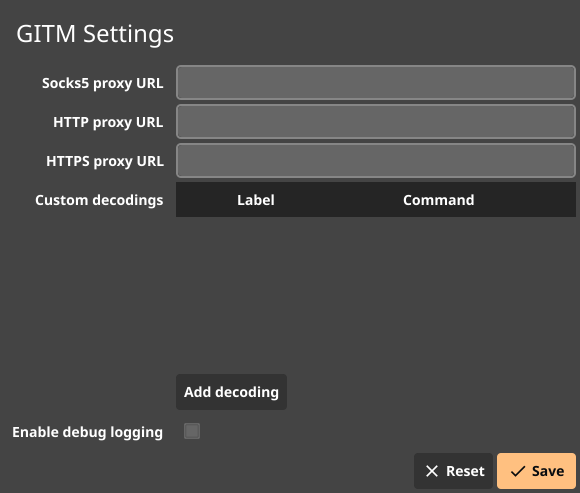
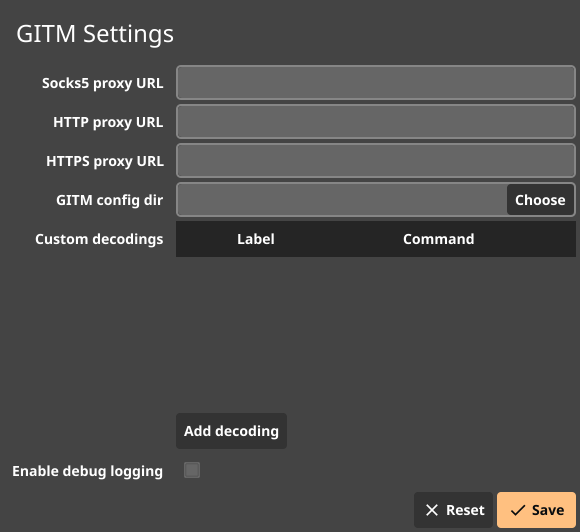
More work on docs, allow user to customize config file location

diff --git a/internal/ui/help.go b/internal/ui/help.go
@@ -10,6 +10,7 @@ import (
 	"fyne.io/fyne/v2/container"
 	"fyne.io/fyne/v2/storage"
 	"fyne.io/fyne/v2/widget"
+	"github.com/redawl/gitm/internal/util"
 )
 
 //go:embed docs/about.md
@@ -35,41 +36,42 @@ func MakeHelp() *fyne.Menu {
 	return menu
 }
 
+// CreateDocsEntry creates a menu subentry
+func CreateDocsEntry(label string, filename string, contentContainer *container.Scroll) *fyne.MenuItem {
+	content, ok := contentContainer.Content.(*widget.RichText)
+	util.Assert(ok)
+
+	return fyne.NewMenuItem(label, func() {
+		if homeContent, err := readDocsFile(filename); err != nil {
+			slog.Error("Error reading docs entry", "filename", filename, "error", err)
+		} else {
+			content.ParseMarkdown(homeContent)
+			contentContainer.ScrollToTop()
+		}
+	})
+}
+
 func MakeDocs() *fyne.MenuItem {
 	return fyne.NewMenuItem("Documentation", func() {
-		for _, window := range fyne.CurrentApp().Driver().AllWindows() {
-			if window.Title() == "Documentation" {
-				window.RequestFocus()
-				return
-			}
-		}
-		w := fyne.CurrentApp().NewWindow("Documentation")
+		w := util.NewWindowIfNotExists("Documentation")
 
 		content := widget.NewRichText()
+		contentContainer := container.NewVScroll(content)
 		if homeContent, err := readDocsFile("default.md"); err != nil {
 			slog.Error("Error reading default", "error", err)
 		} else {
 			content.ParseMarkdown(homeContent)
 		}
 
+		// TODO: Replace with list widget, so the currently selected
+		// menu item can be highlighted
 		menu := widget.NewMenu(fyne.NewMenu("",
-			fyne.NewMenuItem("Home", func() {
-				if homeContent, err := readDocsFile("default.md"); err != nil {
-					slog.Error("Error reading default", "error", err)
-				} else {
-					content.ParseMarkdown(homeContent)
-				}
-			}),
-			fyne.NewMenuItem("Iphone setup", func() {
-				if iphoneSetupContent, err := readDocsFile("setup-iphone.md"); err != nil {
-					slog.Error("Error reading Iphone setup", "error", err)
-				} else {
-					content.ParseMarkdown(iphoneSetupContent)
-				}
-			}),
+			CreateDocsEntry("Home", "default.md", contentContainer),
+			CreateDocsEntry("Iphone setup", "setup-iphone.md", contentContainer),
+			CreateDocsEntry("Firefox setup", "firefox.md", contentContainer),
 		))
 
-		w.SetContent(container.NewBorder(nil, nil, menu, nil, container.NewVScroll(content)))
+		w.SetContent(container.NewBorder(nil, nil, menu, nil, contentContainer))
 		w.Show()
 	})
 }

diff --git a/internal/ui/settings/settings.go b/internal/ui/settings/settings.go
@@ -74,7 +74,7 @@ func MakeSettingsUi(restart func()) fyne.Window {
 		}
 	}
 
-	w := a.NewWindow("Settings")
+	w := util.NewWindowIfNotExists("Settings")
 	prefs := a.Preferences()
 	header := container.NewPadded(&widget.Label{
 		Text:     "GITM Settings",
@@ -92,6 +92,18 @@ func MakeSettingsUi(restart func()) fyne.Window {
 	httpsUrl := &widget.Entry{
 		Text: prefs.String(config.TLS_LISTEN_URI),
 	}
+
+	configDir := &widget.Entry{
+		Text: prefs.String(config.CONFIGDIR),
+	}
+
+	configDir.ActionItem = widget.NewButton("Choose", func() {
+		dialog.NewFolderOpen(func(lu fyne.ListableURI, err error) {
+			if lu != nil {
+				configDir.SetText(lu.Path())
+			}
+		}, w).Show()
+	})
 
 	debugEnabled := &widget.Check{
 		Checked: prefs.Bool(config.ENABLE_DEBUG_LOGGING),
@@ -154,9 +166,12 @@ func MakeSettingsUi(restart func()) fyne.Window {
 	table.Refresh()
 
 	form := widget.NewForm()
+	// TODO: Remove entryLayout? How does this look now?
+	// Keeping it causes issues on some devices
 	form.Append("Socks5 proxy URL", container.New(&entryLayout{}, socks5Url))
 	form.Append("HTTP proxy URL", container.New(&entryLayout{}, httpUrl))
 	form.Append("HTTPS proxy URL", container.New(&entryLayout{}, httpsUrl))
+	form.Append("GITM config dir", container.New(&entryLayout{}, configDir))
 	form.Append("Custom decodings",
 		container.NewBorder(
 			nil,
@@ -178,6 +193,7 @@ func MakeSettingsUi(restart func()) fyne.Window {
 		prefs.SetString(config.SOCKS_LISTEN_URI, socks5Url.Text)
 		prefs.SetString(config.HTTP_LISTEN_URI, httpUrl.Text)
 		prefs.SetString(config.TLS_LISTEN_URI, httpsUrl.Text)
+		prefs.SetString(config.CONFIGDIR, configDir.Text)
 		prefs.SetBool(config.ENABLE_DEBUG_LOGGING, debugEnabled.Checked)
 
 		newCustomDecodings := make([]string, len(decodingLabels))
@@ -192,6 +208,7 @@ func MakeSettingsUi(restart func()) fyne.Window {
 			if b {
 				restart()
 			}
+			w.Close()
 		}, w)
 		successPopup.Show()
 	}

diff --git a/internal/config/config.go b/internal/config/config.go
@@ -1,6 +1,8 @@
 package config
 
 import (
+	"os"
+
 	"fyne.io/fyne/v2"
 )
 
@@ -10,6 +12,7 @@ type Config struct {
 	SocksListenUri  string
 	Debug           bool
 	CustomDecodings []string
+	configDir       string
 }
 
 const (
@@ -18,6 +21,7 @@ const (
 	SOCKS_LISTEN_URI     = "socksListenUri"
 	ENABLE_DEBUG_LOGGING = "enableDebugLogging"
 	CUSTOM_DECODINGS     = "customDecodings"
+	CONFIGDIR            = "configDir"
 )
 
 func stringWithFallbackSave(prefs fyne.Preferences, key string, defaultValue string) string {
@@ -45,12 +49,19 @@ func boolWithFallbackSave(prefs fyne.Preferences, key string, defaultValue bool)
 // ParseFlags parses the currently saved user preferences, and if any are missing saves the default values
 // for those preferences to disk
 func ParseFlags(preferences fyne.Preferences) Config {
+	userCfgDir, err := os.UserConfigDir()
+	if err != nil {
+		userCfgDir = ""
+	}
+
+	userCfgDir = userCfgDir + "/gitm"
 	conf := Config{
 		HttpListenUri:   stringWithFallbackSave(preferences, HTTP_LISTEN_URI, "127.0.0.1:8080"),
 		TlsListenUri:    stringWithFallbackSave(preferences, TLS_LISTEN_URI, "127.0.0.1:5443"),
 		SocksListenUri:  stringWithFallbackSave(preferences, SOCKS_LISTEN_URI, "127.0.0.1:1080"),
 		Debug:           boolWithFallbackSave(preferences, ENABLE_DEBUG_LOGGING, false),
 		CustomDecodings: preferences.StringList(CUSTOM_DECODINGS),
+		configDir:       stringWithFallbackSave(preferences, CONFIGDIR, userCfgDir),
 	}
 
 	return conf

diff --git a/internal/ui/ui.go b/internal/ui/ui.go
@@ -29,16 +29,14 @@ func makeMenu(clearHandler func(), saveHandler func(), loadHandler func(), setti
 func MakeUi(packetChan chan packet.HttpPacket, restart func()) fyne.Window {
 	a := fyne.CurrentApp()
 
-	recordButton := NewRecordButton()
-
-	w := a.NewWindow("Gopher in the middle")
+	w := util.NewWindowIfNotExists("Gopher in the middle")
 	w.SetMaster()
+	w.Resize(fyne.NewSize(
+		float32(a.Preferences().FloatWithFallback("MainWindowWidth", 1000)),
+		float32(a.Preferences().FloatWithFallback("MainWindowHeight", 800)),
+	))
 
-	// TODO: Remove hardcoded default size.
-	// We'll need to figure out how we want the application to look when
-	// first opened. It would be nice to simulate a "Windowed fullscreen/borderless" look,
-	// but fyne does not have direct support.
-	w.Resize(fyne.NewSize(1920, 1080))
+	recordButton := NewRecordButton()
 
 	requestContent := NewPacketDisplay("Request", w)
 	responseContent := NewPacketDisplay("Response", w)
@@ -139,6 +137,11 @@ func MakeUi(packetChan chan packet.HttpPacket, restart func()) fyne.Window {
 	)
 
 	w.SetContent(masterLayout)
+
+	w.SetOnClosed(func() {
+		a.Preferences().SetFloat("MainWindowWidth", float64(w.Canvas().Size().Width))
+		a.Preferences().SetFloat("MainWindowHeight", float64(w.Canvas().Size().Height))
+	})
 
 	return w
 }

diff --git a/internal/util/util.go b/internal/util/util.go
@@ -4,6 +4,9 @@ import (
 	"errors"
 	"log/slog"
 	"os"
+
+	"fyne.io/fyne/v2"
+	"github.com/redawl/gitm/internal/config"
 )
 
 // GetConfigDir returns the path to the user config dir on the current machine as a string.
@@ -13,18 +16,24 @@ import (
 // If the default location for config directories does not exist, or if there is an error creating
 // the config dir, an error is returned.
 func GetConfigDir() (string, error) {
-	userCfgDir, err := os.UserConfigDir()
+	// TODO: Remove dependency on fyne for this function
+	a := fyne.CurrentApp()
+	var cfgDir string
+	if a != nil {
+		cfgDir = a.Preferences().String(config.CONFIGDIR)
+	} else {
+		// TODO: Use config here instead of hardcoding os config dir
+		userCfgDir, err := os.UserConfigDir()
+		if err != nil {
+			return "", err
+		}
 
-	if err != nil {
-		return "", err
+		cfgDir = userCfgDir + "/gitm"
 	}
-
-	cfgDir := userCfgDir + "/gitm"
 
 	if _, err := os.Stat(cfgDir); errors.Is(err, os.ErrNotExist) {
 		slog.Debug("Config dir doesn't exist, creating")
 		err := os.Mkdir(cfgDir, 0700)
-
 		if err != nil {
 			return "", err
 		}

diff --git a/internal/ui/packetentry.go b/internal/ui/packetentry.go
@@ -207,14 +207,13 @@ func (p *PacketEntry) selectAll() {
 	p.Refresh()
 }
 
-// TappedSecondary handle when the user right clicks
+// TappedSecondary handles when the user right clicks
 // Creates the right click menu with entries for the supported decodings
 func (p *PacketEntry) TappedSecondary(evt *fyne.PointEvent) {
 	c := fyne.CurrentApp().Driver().CanvasForObject(p)
 
 	decodeEntries := make([]*fyne.MenuItem, 0)
 
-	// Builtin encodings
 	for encodingKey := range GetEncodings() {
 		decodeEntries = append(decodeEntries, fyne.NewMenuItem(encodingKey, func() {
 			if !p.HasSelectedText() {
@@ -232,7 +231,6 @@ func (p *PacketEntry) TappedSecondary(evt *fyne.PointEvent) {
 
 	decodeEntries = append(decodeEntries, fyne.NewMenuItemSeparator())
 
-	// Custom encodings
 	customDecodeEntries := fyne.CurrentApp().Preferences().StringList(config.CUSTOM_DECODINGS)
 
 	for _, decodeEntry := range customDecodeEntries {

diff --git a/internal/util/ui.go b/internal/util/ui.go
@@ -1,0 +1,20 @@
+package util
+
+import "fyne.io/fyne/v2"
+
+// NewWindowIfNotExists creates a window with the given title,
+// unless there is already an existing window with the same title
+// If a window with title already exists, that window is returned instead
+// of a new window
+func NewWindowIfNotExists(title string) fyne.Window {
+	a := fyne.CurrentApp()
+
+	for _, window := range a.Driver().AllWindows() {
+		if window.Title() == title {
+			window.RequestFocus()
+			return window
+		}
+	}
+
+	return a.NewWindow(title)
+}

diff --git a/main.go b/main.go
@@ -14,6 +14,7 @@ import (
 	"github.com/redawl/gitm/internal/packet"
 	"github.com/redawl/gitm/internal/socks5"
 	"github.com/redawl/gitm/internal/ui"
+	"github.com/redawl/gitm/internal/ui/settings"
 )
 
 // setupBackend sets up the socks5 proxy, as well as the http and https proxy listeners.
@@ -69,6 +70,8 @@ func main() {
 	})
 	if err != nil {
 		slog.Error("Error setting up backend", "error", err)
+		settings.MakeSettingsUi(nil).ShowAndRun()
+
 		return
 	}
 

diff --git a/docs/firefox.md b/docs/firefox.md
@@ -1,0 +1,35 @@
+# Firefox setup
+
+To setup firefox for use with gitm, you will need to install an extension like [FoxyProxy](https://getfoxyproxy.org/).
+
+While other extensions will work, this tutorial will use FoxyProxy as an example.
+
+1. Locate gitm sock5 proxy url
+Open GITM, then navigate to File > Settings:
+
+![](docs:firefox-1.png)
+
+Next, locate the socks5 proxy url. Update it to a port that firefox will be able to access.
+(If firefox will be running on the same computer as gitm, localhost will work fine.
+
+![](docs:firefox-2.png)
+
+Finally using the above socks5 url, configure a proxy in Foxyproxy for gitm:
+
+![](docs:firefox-3.png)
+
+Now, you can set foxyproxy to use the configured proxy, and you should be able to see
+
+your web traffic in gitm:
+
+![](docs:firefox-4.png)
+
+![](docs:firefox-5.png)
+![](docs:firefox-6.png)
+
+Well, with an annoying warning about unknown issuer... while this may work for 
+
+simple intercepts, we want more!!
+
+2. Adding GITM ca certificate to firefox
+

diff --git a/internal/ui/docs/about.md b/internal/ui/docs/about.md
@@ -1,5 +1,5 @@
 # About GITM
---
+---
 
 Copyright (c) 2025 Eli Burch <eli.burch@burchbytes.com>
 
